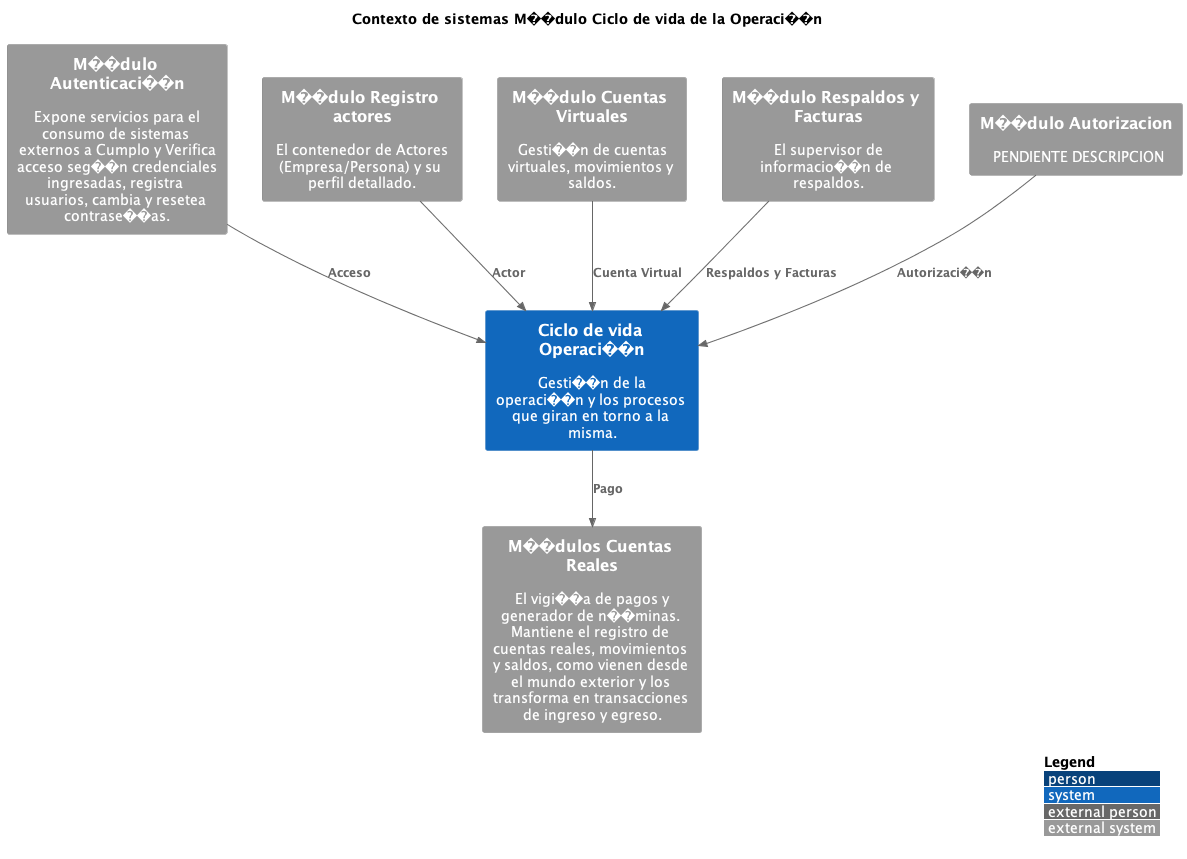
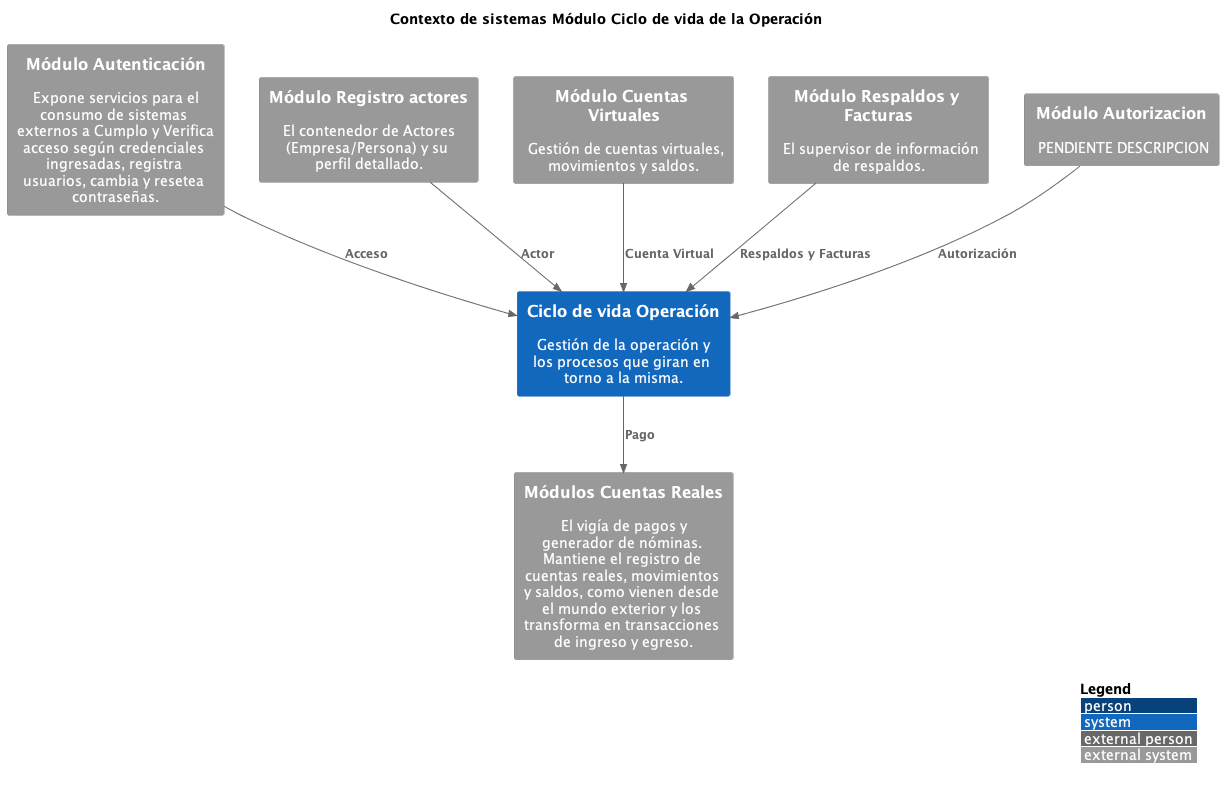
se resuelve el tema de los tildes

diff --git a/README.md b/README.md
@@ -1,8 +1,10 @@
 # Generar los diagramas desde codigo
 
-java -jar plantuml.jar file1 file2 file3
+java -jar plantuml.jar -charset UTF-8 file1 file2 file3
 
 Ver :https://plantuml.com/es/command-line
+
+Ejemplo: java -jar plantuml.jar -charset UTF-8 CuentasReales*/**.puml CicloVidaOperacion*/**.puml
 
 
 # C4-PlantUML
